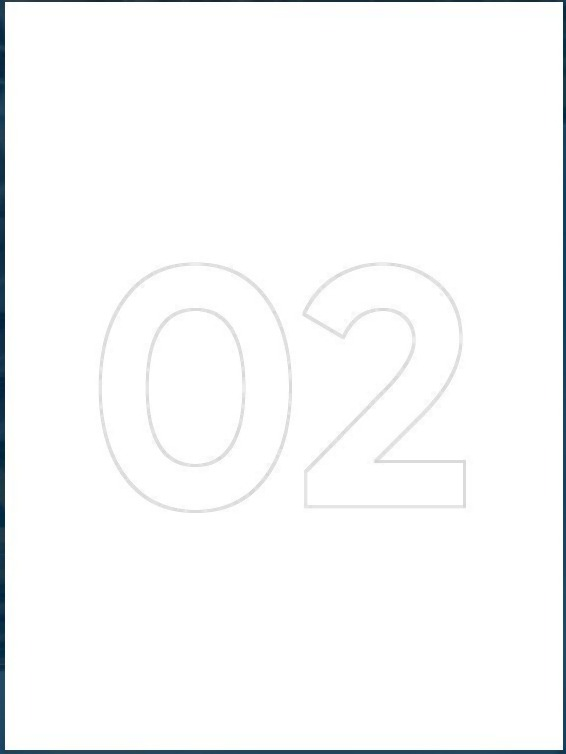
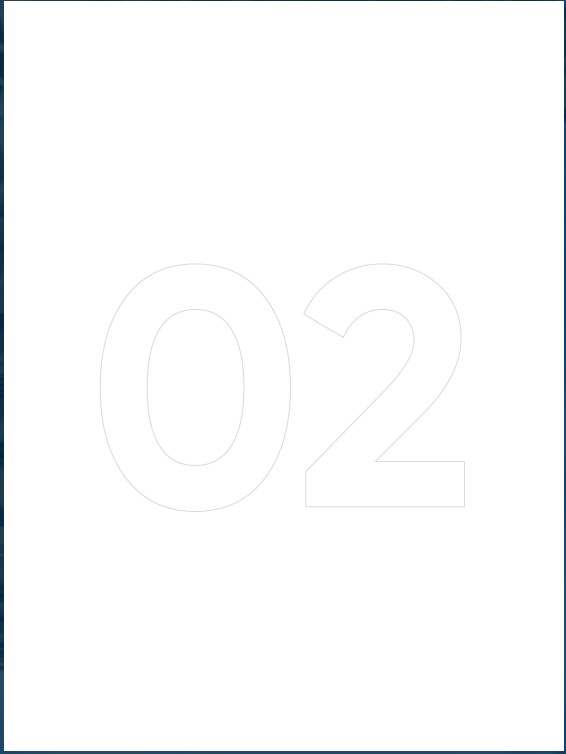
revert: mobile methodology redesign, replace with scroll-triggered flip
Reverts the static-merged-card mobile layout, the thickened numerals,
and the ETAPAS/STAGES title added on top of it — back to the original
flip-box front card and thin numeral artwork on every breakpoint.

In its place: FlipBox itself now flips automatically the first time it
scrolls into view below 768px (IntersectionObserver, one-shot, class-
based so it doesn't fight the existing hover/focus-within triggers).
Since every flip-card section site-wide (home's Metodología, the three
service-cycle pages' Etapas, /marketing's Pilares) goes through this
one shared component, the behavior applies everywhere without
touching those call sites. >=768 is untouched — hover/focus-within
still drive the flip there, confirmed opacity still reaches 1 on
hover.

diff --git a/src/components/MethodologyGrid.tsx b/src/components/MethodologyGrid.tsx
@@ -25,69 +25,28 @@ export default function MethodologyGrid({ steps }: Props) {
         const Icon = step.icon;
         return (
           <div key={step.title} className="px-[10px] py-[10px]">
-            {/* >=md: unchanged hover-flip. Below md, hover doesn't exist and
-                tap-to-reveal meant anyone who only scrolls never sees the
-                description — so mobile gets a single static card instead
-                (test case for the rest of the site's flip-boxes). */}
-            <div className="hidden md:block">
-              <FlipBox
-                label={step.title}
-                frontImage={step.frontImage}
-                backImage={step.backImage}
-                front={
-                  <>
-                    <div className="mb-[20px] flex justify-center">
-                      <Icon className="text-[50px] text-primary" />
-                    </div>
-                    <h3 className="font-heading text-[21px] font-semibold leading-none text-heading">
-                      {step.title}
-                    </h3>
-                  </>
-                }
-                back={
-                  <div className="font-sans text-[14px] leading-[1.8] text-white">
-                    {step.items.map((item) => (
-                      <p key={item}>{item}</p>
-                    ))}
+            <FlipBox
+              label={step.title}
+              frontImage={step.frontImage}
+              backImage={step.backImage}
+              front={
+                <>
+                  <div className="mb-[20px] flex justify-center">
+                    <Icon className="text-[50px] text-primary" />
                   </div>
-                }
-              />
-            </div>
-
-            <div
-              className="relative flex flex-col items-center bg-cover bg-center bg-no-repeat p-[35px] text-center md:hidden"
-              style={{ backgroundImage: `url(${step.backImage})` }}
-            >
-              <span
-                aria-hidden="true"
-                className="absolute inset-0"
-                style={{ backgroundColor: "rgba(0, 41, 75, 0.24)" }}
-              />
-              {/* Same outlined 01-04 numeral as the >=md front card, extracted
-                  to a transparent watermark (alpha baked in, max ~39%) so it
-                  sits behind the text instead of on its own opaque card. */}
-              <div
-                aria-hidden="true"
-                className="absolute inset-0 bg-center bg-no-repeat"
-                style={{
-                  backgroundImage: `url(${step.frontImage.replace("-base-core-sales.jpg", "-numeral-watermark.png")})`,
-                  backgroundSize: "55% auto",
-                }}
-              />
-              <div className="relative">
-                <div className="mb-[20px] flex justify-center">
-                  <Icon className="text-[50px] text-white" />
-                </div>
-                <h3 className="font-heading text-[21px] font-semibold leading-none text-white">
-                  {step.title}
-                </h3>
-                <div className="mt-[20px] font-sans text-[14px] leading-[1.8] text-white">
+                  <h3 className="font-heading text-[21px] font-semibold leading-none text-heading">
+                    {step.title}
+                  </h3>
+                </>
+              }
+              back={
+                <div className="font-sans text-[14px] leading-[1.8] text-white">
                   {step.items.map((item) => (
                     <p key={item}>{item}</p>
                   ))}
                 </div>
-              </div>
-            </div>
+              }
+            />
           </div>
         );
       })}

diff --git a/src/components/FlipBox.tsx b/src/components/FlipBox.tsx
@@ -1,3 +1,6 @@
+"use client";
+
+import { useEffect, useRef, useState } from "react";
 import type { ReactNode } from "react";
 
 /**
@@ -16,7 +19,12 @@ import type { ReactNode } from "react";
  *
  * `tabIndex` on the wrapper makes the back layer reachable by keyboard, and
  * touch devices get it on tap — Elementor sets `cursor:pointer` below 1024px
- * for the same reason.
+ * for the same reason. Below 768px there's no hover at all, and scrolling
+ * past a card without tapping it means the description never gets seen, so
+ * an IntersectionObserver flips it automatically the first time it enters
+ * the viewport. The `flip-box--revealed` class this sets only has an effect
+ * inside the `max-width: 767px` block in globals.css — harmless to compute
+ * at every width, so there's no need to also gate it on a matchMedia check.
  */
 type Props = {
   frontImage: string;
@@ -48,9 +56,31 @@ export default function FlipBox({
   effect = "zoom-in",
   label,
 }: Props) {
+  const ref = useRef<HTMLDivElement>(null);
+  const [revealed, setRevealed] = useState(false);
+
+  useEffect(() => {
+    const el = ref.current;
+    if (!el) return;
+    const observer = new IntersectionObserver(
+      ([entry]) => {
+        if (entry.isIntersecting) {
+          setRevealed(true);
+          observer.disconnect();
+        }
+      },
+      { threshold: 0.4 },
+    );
+    observer.observe(el);
+    return () => observer.disconnect();
+  }, []);
+
   return (
     <div
-      className={`flip-box cursor-pointer ${effect === "slide-up" ? "flip-box--slide-up" : ""}`}
+      ref={ref}
+      className={`flip-box cursor-pointer ${effect === "slide-up" ? "flip-box--slide-up" : ""} ${
+        revealed ? "flip-box--revealed" : ""
+      }`}
       style={{ height: `${height}px` }}
       tabIndex={0}
       role="group"

diff --git a/src/app/page.tsx b/src/app/page.tsx
@@ -221,12 +221,9 @@ export default function HomePage() {
         className="bg-cover bg-center bg-no-repeat pb-[70px] pt-[80px] dt:bg-fixed dt:pb-[90px] dt:pt-[110px]"
         style={{ backgroundImage: "url(/images/footer-base-core-sales.webp)" }}
       >
+        {/* Inner-section grids span the full 1200px container (no 15px inset),
+            so the 10px cell padding yields 280px cards at x=134 like the original. */}
         <div className="container-bc px-0">
-          <div className="px-[15px]">
-            <SectionHeading title="ETAPAS" dark align="center" className="mb-[30px] dt:mb-[45px]" />
-          </div>
-          {/* Inner-section grids span the full 1200px container (no 15px inset),
-              so the 10px cell padding yields 280px cards at x=134 like the original. */}
           <MethodologyGrid steps={methodology} />
         </div>
       </section>

diff --git a/src/app/globals.css b/src/app/globals.css
@@ -188,6 +188,24 @@
   transform: translateY(0);
 }
 
+/* Below 768 there's no hover, so FlipBox flips itself the first time it
+   scrolls into view (see the IntersectionObserver in FlipBox.tsx) instead of
+   relying on a tap. Scoped to mobile only — >=768 keeps the hover/focus
+   behavior above untouched. */
+@media (max-width: 767px) {
+  .flip-box:not(.flip-box--slide-up).flip-box--revealed .flip-box__back {
+    opacity: 1;
+    transform: scale(1);
+    transition:
+      transform 0.7s,
+      opacity 0.5s;
+  }
+
+  .flip-box--slide-up.flip-box--revealed .flip-box__back {
+    transform: translateY(0);
+  }
+}
+
 /* ---------------------------------------------------------------------------
  * service-item.style-2 (Ciclos de Venta cards)
  * ------------------------------------------------------------------------ */

diff --git a/src/app/en/page.tsx b/src/app/en/page.tsx
@@ -219,9 +219,6 @@ export default function HomePageEn() {
         style={{ backgroundImage: "url(/images/footer-base-core-sales.webp)" }}
       >
         <div className="container-bc px-0">
-          <div className="px-[15px]">
-            <SectionHeading title="STAGES" dark align="center" className="mb-[30px] dt:mb-[45px]" />
-          </div>
           <MethodologyGrid steps={methodology} />
         </div>
       </section>
